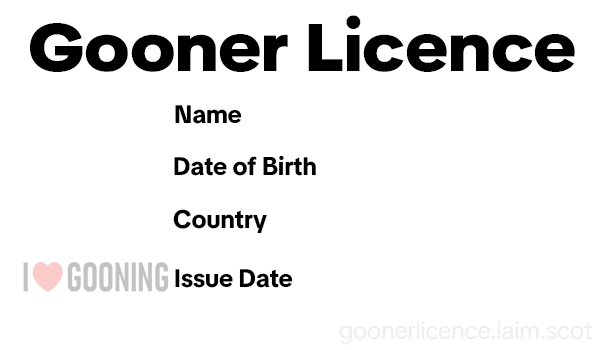
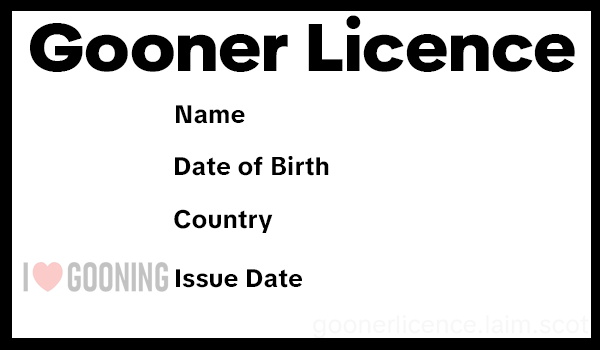
Re-added download buttons, changed template image

diff --git a/index.html b/index.html
@@ -49,14 +49,15 @@
           <label for="selfie" class="form-label">Upload a Selfie</label>
           <input type="file" class="form-control" id="selfie" accept="image/*" required>
         </div>
-        <!-- <button type="submit" class="btn btn-primary w-100">Generate licence</button> -->
+        <button type="submit" class="btn btn-primary w-100">Generate Download</button>
       </form>
 
-      <!-- <div class="text-center mt-4">
+      <div class="text-center mt-4">
         <a id="downloadLink" download="gooner-licence.png" class="btn btn-success d-none">Download licence</a>
-      </div> -->
+      </div>
 
-      <canvas id="canvas" width="600" height="350" class="mt-4 mx-auto d-block border rounded"></canvas>
+      <canvas id="canvas" width="600" height="350" class="img-fluid mt-4 mx-auto d-block border rounded"></canvas>
+      
       <small class="text-muted d-block text-center mt-2 mb-2">Live preview updates as you type, right click or hold down to save.</small>
       <hr>
       <small class="text-muted d-block text-center mt-2">
